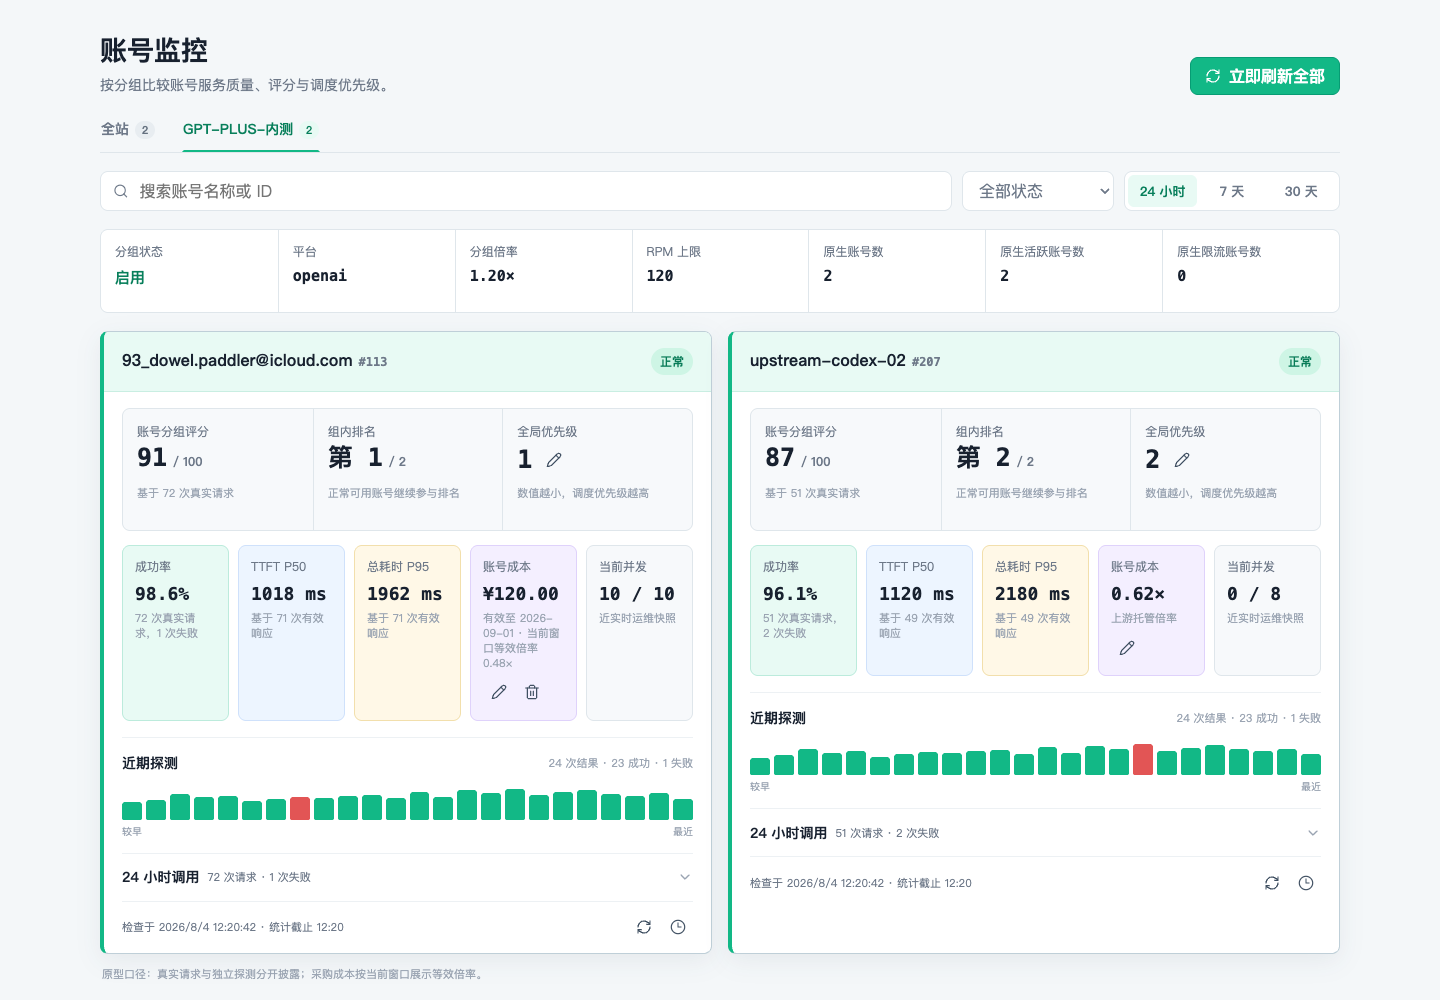
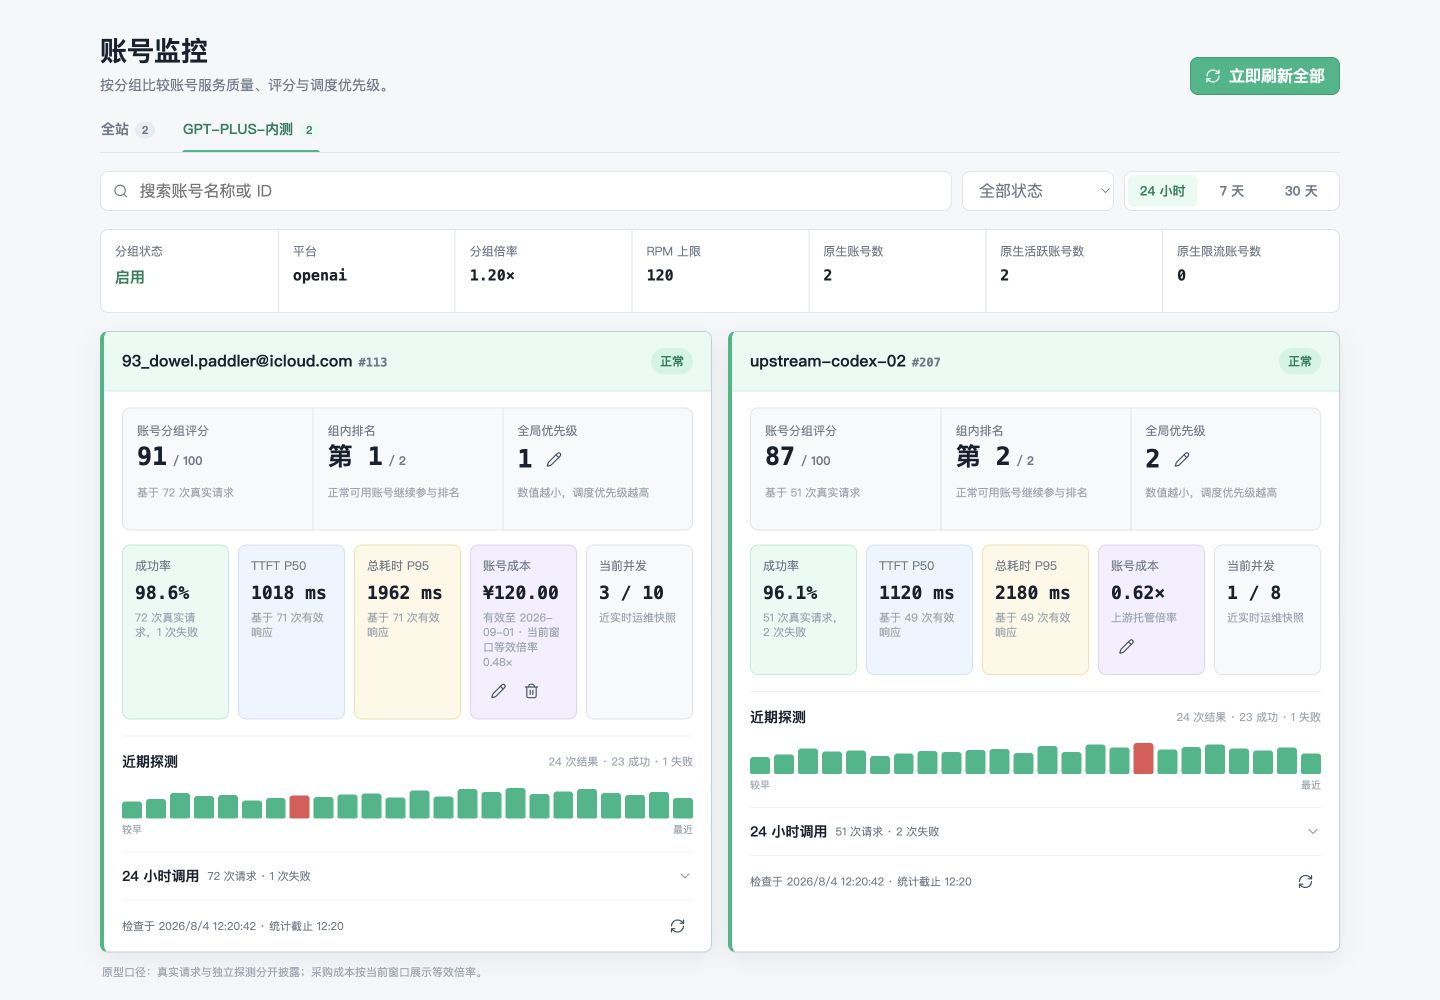
docs: finalize account monitor prototype v3 evidence

diff --git a/docs/superpowers/plans/2026-08-04-account-monitor-card-data-prototype-v3-implementation-plan.md b/docs/superpowers/plans/2026-08-04-account-monitor-card-data-prototype-v3-implementation-plan.md
@@ -37,7 +37,7 @@
 - Consumes: `docs/superpowers/specs/2026-08-04-account-monitor-card-data-completion-design.md` and the current V2 prototype.
 - Produces: `state.group`, `state.accounts`, `state.range`, `renderGroupSummary()`, `renderCards()`, `setRange(range)`, `beginPriorityEdit(accountId)`, `savePriority(accountId)`, `cancelPriorityEdit(accountId)`, `beginCostEdit(accountId)`, `saveCost(accountId)`, `clearCost(accountId)`, `applyFilters()`, and `startConcurrencyTicker()` inside the standalone page.
 
-- [ ] **Step 1: Register the revised prototype scope in the project ledger before changing the prototype.**
+- [x] **Step 1: Register the revised prototype scope in the project ledger before changing the prototype.**
 
 Update the existing 2026-08-04 account-monitor prototype entry instead of adding a duplicate entry. Keep its state as `进行中` and make these decisions explicit:
 
@@ -53,7 +53,7 @@ rg -n "2026-08-04.*账号监控卡片" docs/project/project-progress.md
 
 Expected: one current 2026-08-04 entry describes the revised prototype and remains `进行中`.
 
-- [ ] **Step 2: Add a failing static acceptance check for the new semantic surfaces.**
+- [x] **Step 2: Add a failing static acceptance check for the new semantic surfaces.**
 
 Before editing `index.html`, run:
 
@@ -67,7 +67,7 @@ rg -q '采购成本' docs/prototypes/account-monitor-card-v2/index.html
 
 Expected: FAIL because V2 has no group summary, only one card, and no procurement-cost or current-concurrency surfaces.
 
-- [ ] **Step 3: Replace the single-card sample with the exact minimum data model.**
+- [x] **Step 3: Replace the single-card sample with the exact minimum data model.**
 
 Use this state shape and values as the page's single source of truth:
 
@@ -140,7 +140,7 @@ function compareAccounts(left, right) {
 }
 ```
 
-- [ ] **Step 4: Implement the stable responsive layout and both cost modes.**
+- [x] **Step 4: Implement the stable responsive layout and both cost modes.**
 
 Use a two-column account grid at desktop widths and one column below 900px:
 
@@ -178,7 +178,7 @@ function renderCost(account) {
 
 The group multiplier must not appear in either card. Preserve separate real-request and probe-failure disclosure text for both cards.
 
-- [ ] **Step 5: Implement inline global-priority and procurement-cost interactions.**
+- [x] **Step 5: Implement inline global-priority and procurement-cost interactions.**
 
 For priority:
 
@@ -196,7 +196,7 @@ For procurement cost:
 
 Use Lucide `pencil`, `check`, `x`, and `trash-2` icons with accessible labels and tooltips. Do not add persistent explanatory copy outside the existing compact helper lines.
 
-- [ ] **Step 6: Make every visible prototype control functional.**
+- [x] **Step 6: Make every visible prototype control functional.**
 
 - `setRange(range)` updates both cards' score, rank, request metrics, cost detail, and disclosure values from the same window object.
 - Group and all-site tabs update `state.scope`, selected state, score/rank labels, and group-summary visibility without losing edits.
@@ -227,7 +227,7 @@ function startConcurrencyTicker() {
 
 `renderConcurrencyOnly()` must update only `[data-concurrency-account-id]` text so the card DOM, open disclosures, and edit state do not reset every five seconds.
 
-- [ ] **Step 7: Run static and browser acceptance checks.**
+- [x] **Step 7: Run static and browser acceptance checks.**
 
 Run the static check again:
 
@@ -267,7 +267,7 @@ At a 390x844 mobile viewport, verify:
 
 Save screenshots as `prototype-v3-desktop.png` and `prototype-v3-mobile-top.png`.
 
-- [ ] **Step 8: Replace the QA report with V3 evidence and commit the prototype revision.**
+- [x] **Step 8: Replace the QA report with V3 evidence and commit the prototype revision.**
 
 Update `design-qa.md` so it names the V3 screenshots, both account modes, seven-field group summary, two-column/one-column behavior, inline editing checks, five-second concurrency check, and console/overflow results. Remove statements that V3 contradicts, including the old claim that group multiplier and cost UI are absent.
 
